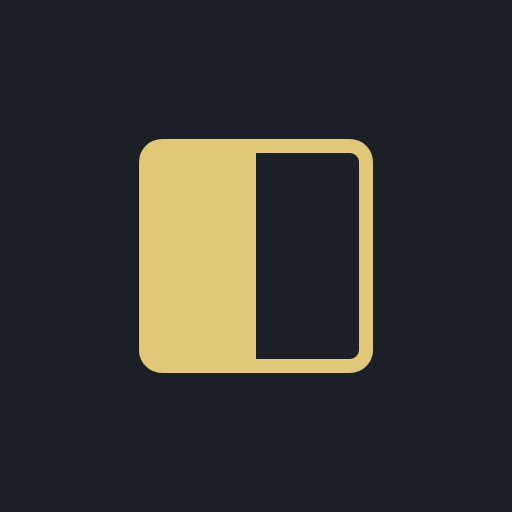
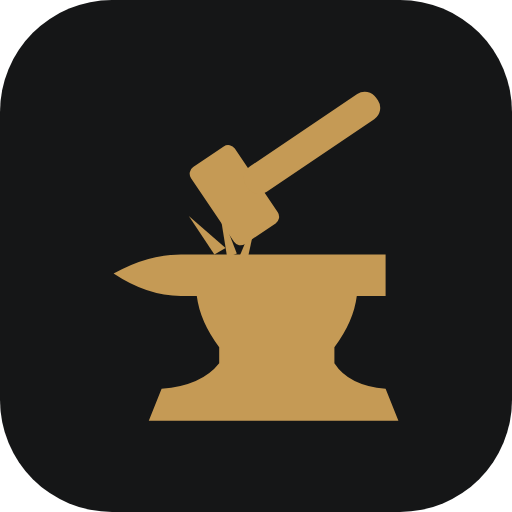
Rebrand to Hypomone — hammer-and-anvil mark, charcoal/gold/ivory, Cinzel wordmark (#12)
The app's name becomes Hypomone (Greek: endurance under pressure). The mark is
an anvil under a raised hammer with sparks between them — something shaped and
strengthened by repeated blows. Slogan: "Improve, never stop."

- ui/AnvilMark: solid vector mark (anvil path + three spark shards + a hammer on
  a rotated <g>), currentColor, square viewBox. public/symbol.svg is the master;
  favicon.svg falls back to the anvil alone, which stays legible at tab size.
- Palette (tokens.css): values retuned to warm charcoal #151617, antique gold
  #C59A55 (replaces brass, still the sole control colour), warm ivory #F2EEE6,
  graphite #242526, sand #D8C5A5. Token roles unchanged — no component CSS moved.
- Type: --font-wordmark = Cinzel for the wordmark only (tracked 0.18em caps);
  in-app screen headings stay Bricolage (they carry user-typed names), UI stays
  IBM Plex Sans/Mono, slogan uses Inter. Fonts self-hosted via @fontsource.
- Header: wordmark mark bumped to 30px; search / settings icon buttons are now
  40px hit targets (44px on mobile) with ~21-23px glyphs — modern standard size.
- index.html title/meta, PWA manifest name/colours, favicon.svg + icon.svg
  redrawn. scripts/gen-icons.mjs rasterises the PWA/Apple PNGs with Playwright's
  Chromium.
- Docs: README, DESIGN §4 brand note, ARCHITECTURE follow-up. Playwright header
  assertion updated to /hypomone/i.

tsc / eslint / 100 unit / 5 e2e / vite build clean.

diff --git a/src/styles/tokens.css b/src/styles/tokens.css
@@ -1,24 +1,27 @@
 /* Design tokens — the single source of truth for colour, type and spacing.
    See DESIGN.md §4. This is a dark-only product (an instrument panel); there is
-   no light theme, so tokens are defined once on :root. */
+   no light theme, so tokens are defined once on :root.
+
+   Palette is the Hypomone identity: warm charcoal, antique gold, warm ivory. */
 
 :root {
   /* ---- surfaces ---- */
-  --vault-900: #14171c; /* app background */
-  --vault-800: #1b1f26; /* panel / bay background */
-  --vault-700: #232833; /* card background */
-  --vault-600: #2e3440; /* hover / raised */
-  --rule: #3a414f; /* hairlines, borders, the stamp gutter rule */
+  --vault-900: #151617; /* charcoal — app background */
+  --vault-800: #1c1d1e; /* panel / bay background */
+  --vault-700: #242526; /* graphite — card background */
+  --vault-600: #2e2f30; /* hover / raised */
+  --rule: #36373a; /* hairlines, borders, the stamp gutter rule */
 
   /* ---- ink ---- */
-  --ink-100: #e8ebf0; /* primary text */
-  --ink-300: #a6afbe; /* secondary text, metadata */
-  --ink-500: #6b7482; /* muted — dismissed issues, timestamps, disabled */
+  --ink-100: #f2eee6; /* warm ivory — primary text */
+  --ink-300: #c9c3b5; /* secondary text, metadata */
+  --ink-500: #8a8579; /* muted — dismissed issues, timestamps, disabled */
+  --sand: #d8c5a5; /* secondary neutral — supporting graphics, rare fills */
 
   /* ---- the one control colour ---- */
-  --brass: #e0c878; /* capture affordance + focus rings ONLY */
-  --brass-dim: #8a7b4a; /* brass, pressed */
-  --brass-glow: rgba(224, 200, 120, 0.25); /* focus ring halo */
+  --brass: #c59a55; /* antique gold — capture affordance + focus rings ONLY */
+  --brass-dim: #7c6537; /* gold, pressed */
+  --brass-glow: rgba(197, 154, 85, 0.25); /* focus ring halo */
 
   /* ---- tag colours (fixed, GitHub-derived; always a filled pill) ---- */
   --tag-bug-fg: #f1707b;
@@ -37,10 +40,17 @@
   --stamp-dismissed: var(--ink-500);
 
   /* ---- type ---- */
+  /* Wordmark & brand headings: a classical Roman-inscription serif, used with
+     restraint. In-app screen headings stay on the display sans below — they
+     carry user-typed project names, which Cinzel's monumental caps would fight. */
+  --font-wordmark: "Cinzel Variable", "Cinzel", "Trajan Pro", "Times New Roman",
+    serif;
   --font-display: "Bricolage Grotesque Variable", "Bricolage Grotesque",
     ui-sans-serif, system-ui, sans-serif;
   --font-body: "IBM Plex Sans", ui-sans-serif, system-ui, -apple-system, sans-serif;
   --font-mono: "IBM Plex Mono", ui-monospace, "SF Mono", Menlo, monospace;
+  /* The slogan only. */
+  --font-slogan: "Inter", ui-sans-serif, system-ui, -apple-system, sans-serif;
 
   --text-display-xl: 34px;
   --text-display-l: 24px;
@@ -58,6 +68,8 @@
   --track-tab: 0.14em;
   --track-mono: 0.02em;
   --track-display: -0.01em;
+  --track-wordmark: 0.18em; /* HYPOMONE, monumental and calm */
+  --track-slogan: 0.24em; /* IMPROVE, NEVER STOP. */
 
   /* ---- spacing scale (4px base) ---- */
   --sp-1: 4px;

diff --git a/src/ui/AnvilMark.tsx b/src/ui/AnvilMark.tsx
@@ -1,0 +1,43 @@
+interface AnvilMarkProps {
+  className?: string | undefined;
+  /** When set, the mark is exposed to assistive tech with this label. */
+  title?: string;
+}
+
+/**
+ * The Hypomone symbol: an anvil under a raised hammer, sparks between them —
+ * something being shaped under repeated pressure. Solid single-colour vector
+ * (`currentColor`), square viewBox. Keep this geometry in sync with the
+ * standalone files in `public/` (favicon.svg, icon.svg, symbol.svg) and the
+ * rasteriser in `scripts/gen-icons.mjs`.
+ */
+const ANVIL_D =
+  "M84 268 Q126 244 168 244 L424 244 L424 296 L388 296 Q384 328 360 360 " +
+  "L360 380 Q378 408 424 412 L440 452 L128 452 L144 412 Q194 408 216 380 " +
+  "L216 360 Q192 328 188 296 L168 296 Q126 296 84 268 Z";
+
+export function AnvilMark({ className, title }: AnvilMarkProps) {
+  return (
+    <svg
+      className={className}
+      viewBox="0 0 512 512"
+      width="1em"
+      height="1em"
+      fill="currentColor"
+      role={title ? "img" : undefined}
+      aria-hidden={title ? undefined : true}
+      aria-label={title}
+      focusable="false"
+    >
+      {title ? <title>{title}</title> : null}
+      <path d={ANVIL_D} />
+      <path d="M210 244 L224 236 L178 196 Z" />
+      <path d="M226 248 L238 243 L216 186 Z" />
+      <path d="M242 245 L251 252 L264 192 Z" />
+      <g transform="rotate(-34 235 170)">
+        <rect x="202" y="112" width="66" height="116" rx="10" />
+        <rect x="254" y="151" width="196" height="38" rx="17" />
+      </g>
+    </svg>
+  );
+}

diff --git a/src/app/AppShell.module.css b/src/app/AppShell.module.css
@@ -44,17 +44,32 @@
 .wordmark {
   display: inline-flex;
   align-items: center;
-  gap: var(--sp-2);
-  font-family: var(--font-display);
-  font-weight: 700;
-  font-size: var(--text-heading-m);
-  letter-spacing: var(--track-display);
+  gap: var(--sp-3);
   color: var(--ink-100);
 }
 
 .mark {
+  flex: none;
+  font-size: 30px;
   color: var(--brass);
-  font-size: 1.1em;
+}
+
+.name {
+  font-family: var(--font-wordmark);
+  font-weight: 600;
+  font-size: 15px;
+  text-transform: uppercase;
+  letter-spacing: var(--track-wordmark);
+  /* the tracking adds a trailing gap; pull the following flex gap back in */
+  margin-right: calc(-1 * var(--track-wordmark));
+  color: var(--ink-100);
+}
+
+@media (max-width: 620px) {
+  .name {
+    letter-spacing: 0.12em;
+    margin-right: -0.12em;
+  }
 }
 
 .actions {
@@ -81,10 +96,12 @@
   align-items: center;
   justify-content: center;
   gap: var(--sp-2);
-  min-height: 36px;
-  font-size: 16px;
+  min-width: 40px;
+  min-height: 40px;
+  font-size: 21px;
+  line-height: 1;
   color: var(--ink-300);
-  padding: 6px 10px;
+  padding: 0 8px;
   border: 1px solid transparent;
   border-radius: var(--radius-sm);
   transition:
@@ -138,6 +155,14 @@
 
   .actions {
     gap: var(--sp-2);
+  }
+
+  /* full 44px touch targets on phones */
+  .iconBtn {
+    min-width: 44px;
+    min-height: 44px;
+    font-size: 23px;
+    padding: 0;
   }
 
   /* Hide the header Add; use the floating one instead. */

diff --git a/vite.config.ts b/vite.config.ts
@@ -15,15 +15,15 @@ export default defineConfig({
       registerType: "autoUpdate",
       includeAssets: ["favicon.svg", "apple-touch-icon.png", "icon.svg"],
       manifest: {
-        name: "Project Improvement Tracker",
-        short_name: "Improvements",
+        name: "Hypomone",
+        short_name: "Hypomone",
         description:
-          "A private board for capturing improvement ideas across your projects.",
+          "Improve, never stop. A private board for shaping your projects, one improvement at a time.",
         start_url: base,
         scope: base,
         display: "standalone",
-        background_color: "#14171c",
-        theme_color: "#14171c",
+        background_color: "#151617",
+        theme_color: "#151617",
         icons: [
           { src: "pwa-192.png", sizes: "192x192", type: "image/png" },
           { src: "pwa-512.png", sizes: "512x512", type: "image/png" },

diff --git a/index.html b/index.html
@@ -7,13 +7,14 @@
       content="width=device-width, initial-scale=1, viewport-fit=cover"
     />
     <meta name="color-scheme" content="dark" />
-    <meta name="theme-color" content="#14171C" />
+    <meta name="theme-color" content="#151617" />
     <link rel="icon" type="image/svg+xml" href="favicon.svg" />
     <link rel="apple-touch-icon" href="apple-touch-icon.png" />
     <meta name="apple-mobile-web-app-capable" content="yes" />
     <meta name="apple-mobile-web-app-status-bar-style" content="black-translucent" />
-    <meta name="apple-mobile-web-app-title" content="Improvements" />
-    <title>Improvements</title>
+    <meta name="apple-mobile-web-app-title" content="Hypomone" />
+    <meta name="description" content="Improve, never stop. A private board for shaping your projects." />
+    <title>Hypomone</title>
   </head>
   <body>
     <div id="root"></div>

diff --git a/src/app/AuthGate.module.css b/src/app/AuthGate.module.css
@@ -21,19 +21,33 @@
 }
 
 .mark {
-  font-size: 28px;
+  font-size: 44px;
   color: var(--brass);
 }
 
 .title {
-  font-family: var(--font-display);
-  font-weight: 700;
+  font-family: var(--font-wordmark);
+  font-weight: 600;
   font-size: var(--text-display-l);
-  letter-spacing: var(--track-display);
+  text-transform: uppercase;
+  letter-spacing: var(--track-wordmark);
+  margin-right: calc(-1 * var(--track-wordmark));
   color: var(--ink-100);
 }
 
+.slogan {
+  margin-top: calc(-1 * var(--sp-1));
+  font-family: var(--font-slogan);
+  font-weight: 600;
+  font-size: 10px;
+  text-transform: uppercase;
+  letter-spacing: var(--track-slogan);
+  margin-right: calc(-1 * var(--track-slogan));
+  color: var(--brass);
+}
+
 .sub {
+  margin-top: var(--sp-2);
   color: var(--ink-300);
   font-family: var(--font-body);
   font-size: var(--text-small);

diff --git a/src/app/AuthGate.tsx b/src/app/AuthGate.tsx
@@ -1,4 +1,5 @@
 import { useEffect, useMemo, useState, type ReactNode } from "react";
+import { AnvilMark } from "@/ui";
 import { FirestoreStore, type Store } from "@/store";
 import { getDb } from "@/firebase/init";
 import {
@@ -38,10 +39,9 @@ export function AuthGate({ render }: AuthGateProps) {
     return (
       <div className={styles.splash}>
         <div className={styles.card}>
-          <p className={styles.mark} aria-hidden="true">
-            ◧
-          </p>
-          <h1 className={styles.title}>improvements</h1>
+          <AnvilMark className={styles.mark} />
+          <h1 className={styles.title}>Hypomone</h1>
+          <p className={styles.slogan}>Improve, never stop.</p>
           <p className={styles.sub}>Sign in to reach your board.</p>
           <button
             type="button"

diff --git a/src/app/AppShell.tsx b/src/app/AppShell.tsx
@@ -1,6 +1,6 @@
 import { useCallback, useEffect, useState } from "react";
 import { Link, Outlet } from "react-router-dom";
-import { Button } from "@/ui";
+import { AnvilMark, Button } from "@/ui";
 import { QuickAdd } from "@/routes/overlays/QuickAdd";
 import { CommandSearch } from "@/routes/overlays/CommandSearch";
 import { useToast } from "./toast-context";
@@ -55,10 +55,8 @@ export function AppShell() {
       </a>
       <header className={styles.bar}>
         <Link to="/" className={styles.wordmark}>
-          <span className={styles.mark} aria-hidden="true">
-            ◧
-          </span>
-          improvements
+          <AnvilMark className={styles.mark} />
+          <span className={styles.name}>Hypomone</span>
         </Link>
 
         <div className={styles.actions}>

diff --git a/src/styles/fonts.css b/src/styles/fonts.css
@@ -1,5 +1,8 @@
 /* Self-hosted via @fontsource — no runtime CDN.
-   Display: Bricolage Grotesque (variable). Body: IBM Plex Sans. Data: IBM Plex Mono. */
+   Wordmark: Cinzel (variable). Display: Bricolage Grotesque (variable).
+   Body: IBM Plex Sans. Data: IBM Plex Mono. Slogan: Inter. */
+
+@import "@fontsource-variable/cinzel/index.css";
 
 @import "@fontsource-variable/bricolage-grotesque/index.css";
 
@@ -9,3 +12,6 @@
 
 @import "@fontsource/ibm-plex-mono/400.css";
 @import "@fontsource/ibm-plex-mono/500.css";
+
+@import "@fontsource/inter/500.css";
+@import "@fontsource/inter/600.css";

diff --git a/playwright/capture.spec.ts b/playwright/capture.spec.ts
@@ -3,7 +3,7 @@ import { expect, test } from "@playwright/test";
 test("file an idea with the keyboard and see it in the feed", async ({ page }) => {
   await page.goto("/#/");
   await expect(
-    page.getByRole("link", { name: /improvements/i }),
+    page.getByRole("link", { name: /hypomone/i }),
   ).toBeVisible();
 
   // `a` from anywhere opens the capture overlay.

diff --git a/src/ui/index.ts b/src/ui/index.ts
@@ -1,3 +1,4 @@
+export { AnvilMark } from "./AnvilMark";
 export { StatusStamp } from "./StatusStamp";
 export { TagChip } from "./TagChip";
 export { TagPicker } from "./TagPicker";

diff --git a/ARCHITECTURE.md b/ARCHITECTURE.md
@@ -389,10 +389,18 @@ only by the deployed site.
   which shows the shared `ConfirmDialog` before the soft delete (matches the
   purge safety click).
 - **⌘⏎ from anywhere in QuickAdd** — the shortcut was only bound to the
-  `textarea`, so once a project was picked (focus on a chip) the key toggled the
-  chip instead of filing. QuickAdd now catches ⌘⏎ on a `display: contents`
-  wrapper and `IssueTextArea` stops propagation once it has handled the key, so
-  it fires exactly once wherever focus sits.
+  `textarea`, so once a project was picked the result button unmounted and focus
+  fell to `<body>`, outside the panel. QuickAdd now listens for ⌘⏎ on `document`
+  (capture phase, like `Modal`'s Escape) with a `filingRef` guard so it fires
+  exactly once wherever focus sits.
+- **Hypomone brand** — the app took on the Hypomone identity: `ui/AnvilMark`
+  (solid vector — anvil, three sparks, a raised hammer on a rotated `<g>`;
+  `currentColor`) in the header and auth splash, `--font-wordmark` (Cinzel) for
+  the wordmark only, retuned charcoal/gold/ivory token *values* (roles
+  unchanged) in `styles/tokens.css`. `public/symbol.svg` is the logo master;
+  `favicon.svg` uses the anvil alone (the full mark muddies below ~24px);
+  `scripts/gen-icons.mjs` rasterises the PWA/Apple PNGs via Playwright's
+  Chromium.
 - **Project detail** — the `Project` schema gained `description`, `websiteUrl`,
   `links: {label,url}[]`, and Markdown `notes`, threaded through both Store
   adapters and `firestore-mappers` (`store/project-links.ts` holds the shared
